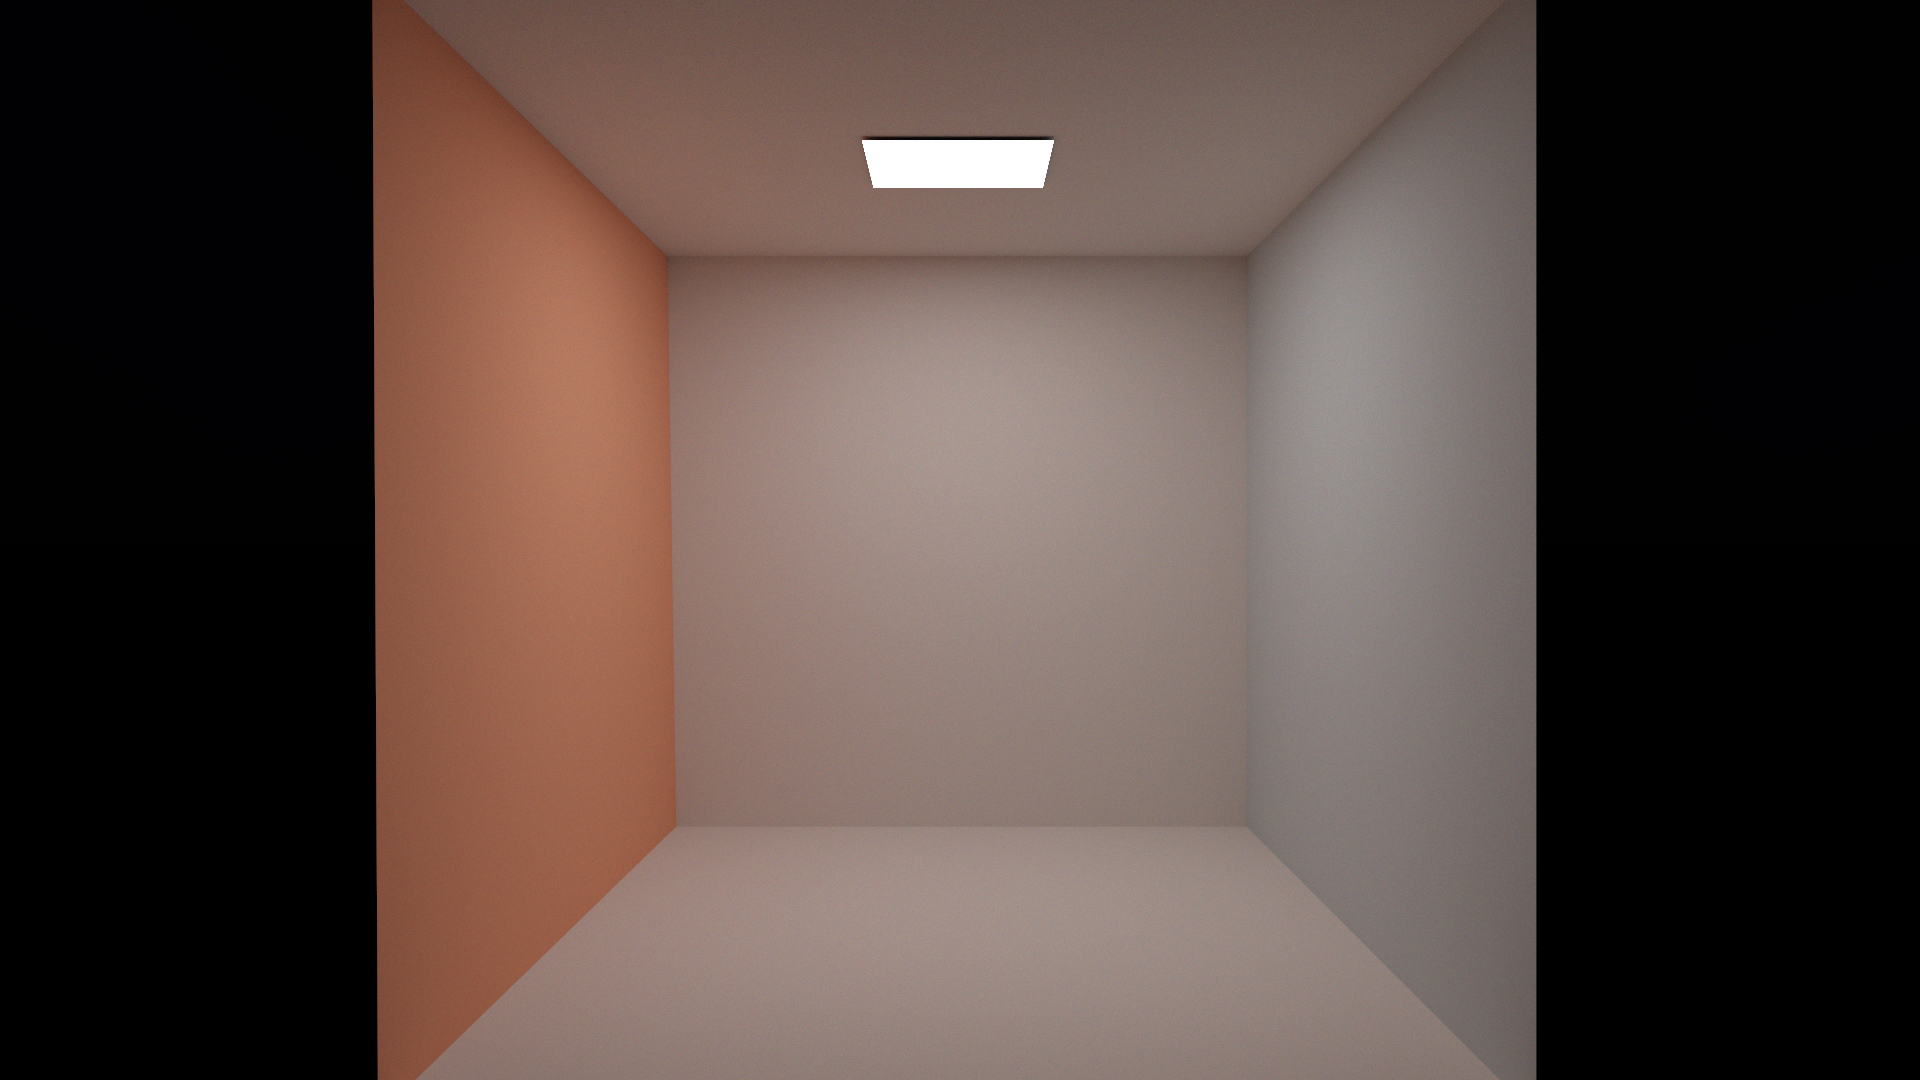
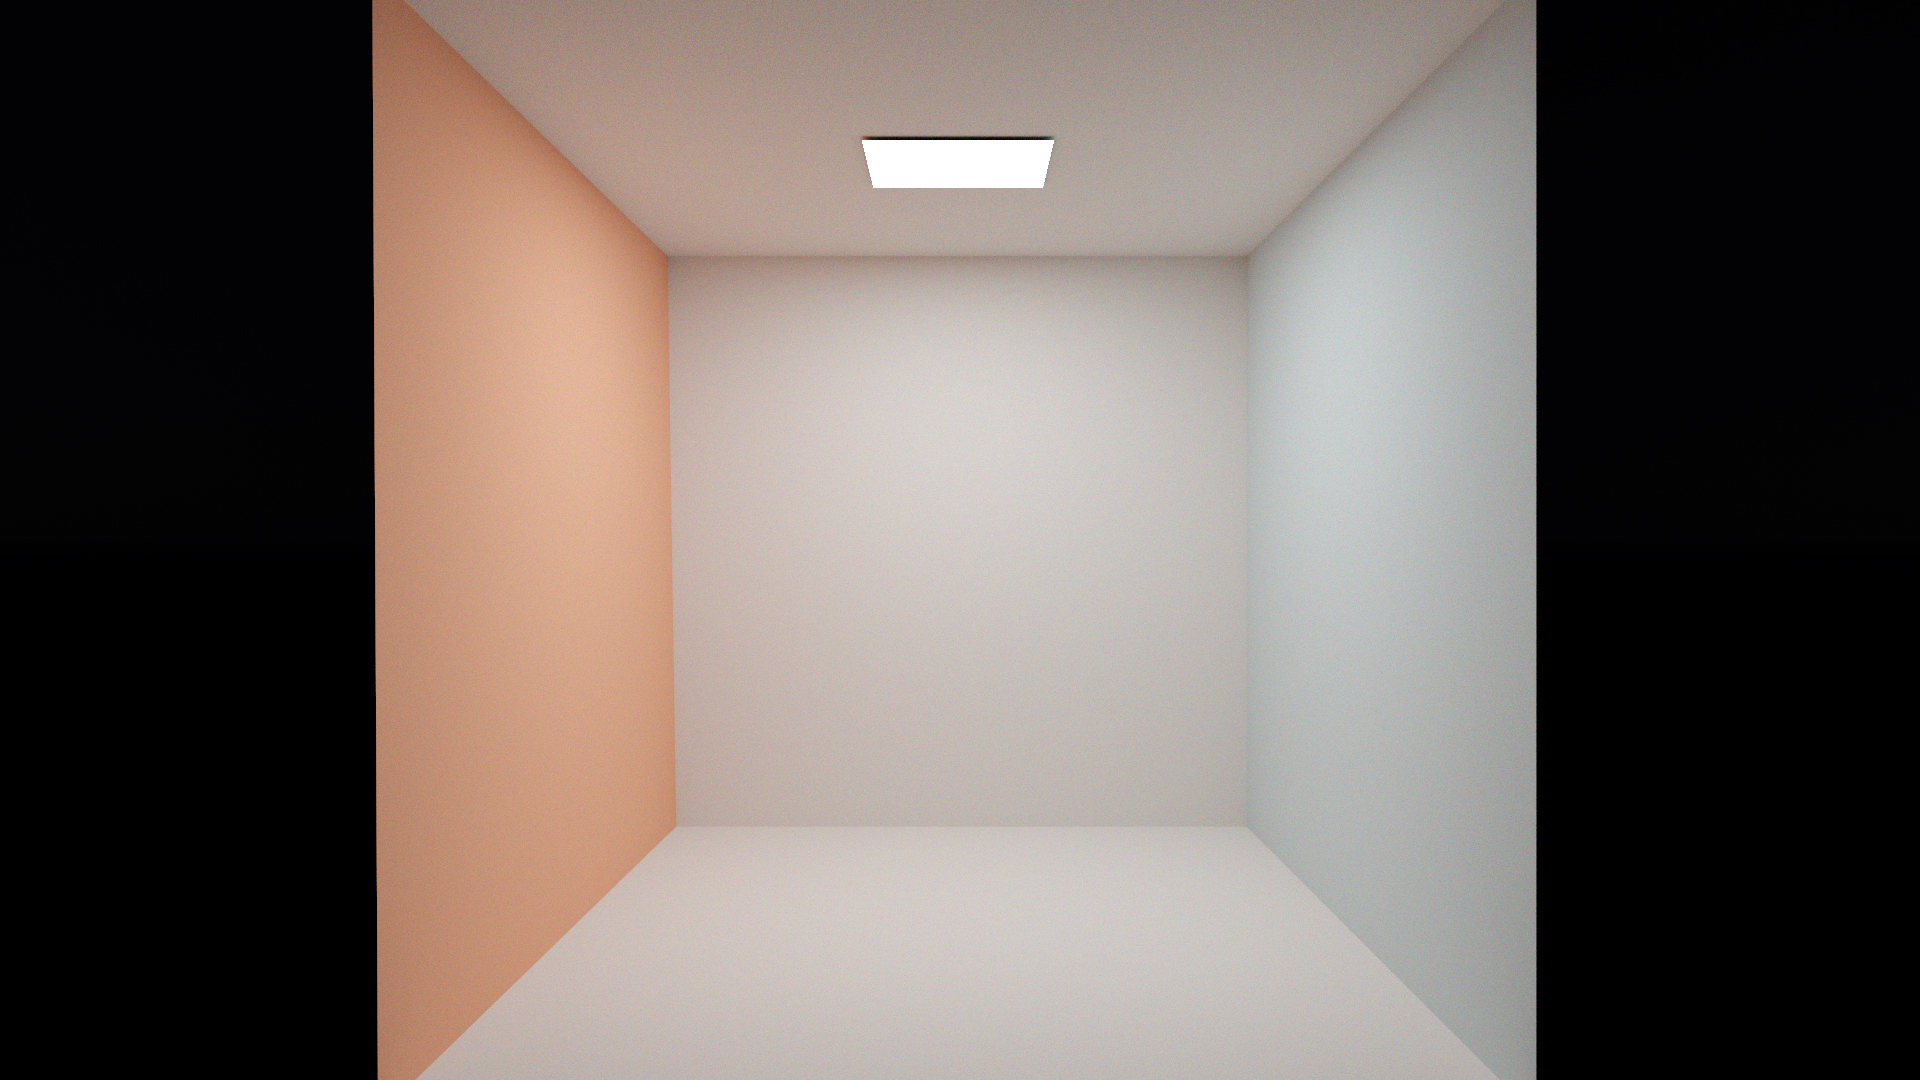
Corrected wavelength range

diff --git a/include/application.hpp b/include/application.hpp
@@ -64,6 +64,8 @@ public:
         m_renderer.setCamera(camera);
         m_renderer.setEnvMap(scene.environment.file);
 
+        m_scene = scene;
+
 
         // 結果を描画するテクスチャの作成
         GLenum texFormat = GL_RGBA;
@@ -224,6 +226,20 @@ public:
             ImGui::End();
         }
 
+        if(m_scene.integrator.applySpectralRendering){
+            ImGui::Begin("For Spectral Rendering");
+            ImGui::Text("Spectrum Data:");
+            ImGui::Text("XYZ CMF: %s\n", m_scene.spectrum.xyzFuncFile.c_str());
+            ImGui::Text("Basis function for reflectance: %s\n",  m_scene.spectrum.upSampleBasisFile.c_str());
+            ImGui::Text("Illumination: %s\n", m_scene.spectrum.D65File.c_str());
+            ImGui::Text("Spectrum Data:");
+            ImGui::Text("Wavelength range:");
+            ImGui::Text("Min: %f nm, ", m_renderer.getWavelengthMin()); ImGui::SameLine();
+            ImGui::Text("Max: %f nm", m_renderer.getWavelengthMax()); 
+            
+            ImGui::End();
+        }
+
         GLFWCameraWindow::drawImGuiContents();
 
     }
@@ -257,6 +273,8 @@ protected:
 
     cudaSurfaceObject_t     m_surf;
     cudaArray_t             m_surfaceArray;
+
+    sceneIO::Scene          m_scene;
 };
 
 #endif // APPLICATION_HPP_

diff --git a/src/renderer.cpp b/src/renderer.cpp
@@ -1656,8 +1656,10 @@ void Renderer::uploadSpectrumData()
 
 
 
-    m_launchParams.spectral.wavelengthMin = fmaxf(fmaxf(m_xyz[0].lambdaMin, m_D65.lambdaMin), m_rgbUpSamplingBasis[0].lambdaMin);
-    m_launchParams.spectral.wavelengthMax = fminf(fminf(m_xyz[0].lambdaMax, m_D65.lambdaMin), m_rgbUpSamplingBasis[0].lambdaMax);
+    m_wavelengthMin = fmaxf(fmaxf(m_xyz[0].lambdaMin, m_D65.lambdaMin), m_rgbUpSamplingBasis[0].lambdaMin);
+    m_wavelengthMax = fminf(fminf(m_xyz[0].lambdaMax, m_D65.lambdaMax), m_rgbUpSamplingBasis[0].lambdaMax);
+    m_launchParams.spectral.wavelengthMin = m_wavelengthMin;
+    m_launchParams.spectral.wavelengthMax = m_wavelengthMax;
 
 }
 
@@ -1699,3 +1701,12 @@ SpectrumData Renderer::loadSpectrumDataFromCSV(const std::string path, const int
     }
     return out;
 };
+
+float Renderer::getWavelengthMin() const
+{
+    return m_wavelengthMin;
+}
+float Renderer::getWavelengthMax() const
+{
+    return m_wavelengthMax;
+}

diff --git a/spectrum/compute_basis.py b/spectrum/compute_basis.py
@@ -30,7 +30,8 @@ FN_XYZ1931  = "CIE_xyz_1931_2deg.csv"
 
 
 OUT_BASIS_CSV   = "basis_rgb.csv"
-OUT_XYZ_CSV     = "xyzbar_from_lms.csv"
+OUT_XYZ_CSV     = "xyzbar.csv"
+OUT_ILLUM_CSV     = "illumination.csv"
 
 # -----------------------------
 # ユーティリティ
@@ -252,7 +253,16 @@ def main():
 
     # XYZ 関数の読みこみ
     xsXYZ, XYZ  = load_csv(FN_XYZ1931)
-    xyzbar      = resample_spectrum(XYZ, xsXYZ, wavelengths) 
+    xyzbar      = resample_spectrum(XYZ, xsXYZ, wavelengths)
+    
+    np.savetxt(
+        OUT_ILLUM_CSV, 
+        np.column_stack([wavelengths, D65_rs]), 
+        delimiter=",", 
+        header="wavelength(nm), D65 illuminant", 
+        comments=""
+    )
+    print(f"Saved: {OUT_ILLUM_CSV}")
     
     np.savetxt(
         OUT_XYZ_CSV, 

diff --git a/include/renderer.hpp b/include/renderer.hpp
@@ -96,6 +96,8 @@ public:
     float getWhite() const;
     void setExposure(const float exposure);
     float getExposure() const;
+    float getWavelengthMin() const;
+    float getWavelengthMax() const;
 
     
 
@@ -225,6 +227,8 @@ protected:
     std::vector<SpectrumData>       m_xyz;
     std::vector<SpectrumData>       m_rgbUpSamplingBasis;
     SpectrumData                    m_D65;
+    float                           m_wavelengthMin;
+    float                           m_wavelengthMax;
 
     // XYZ 等色関数
     std::vector<cudaArray_t>            m_xyzFuncArrays;    // 関数の実体が入ったデータのベクトル
